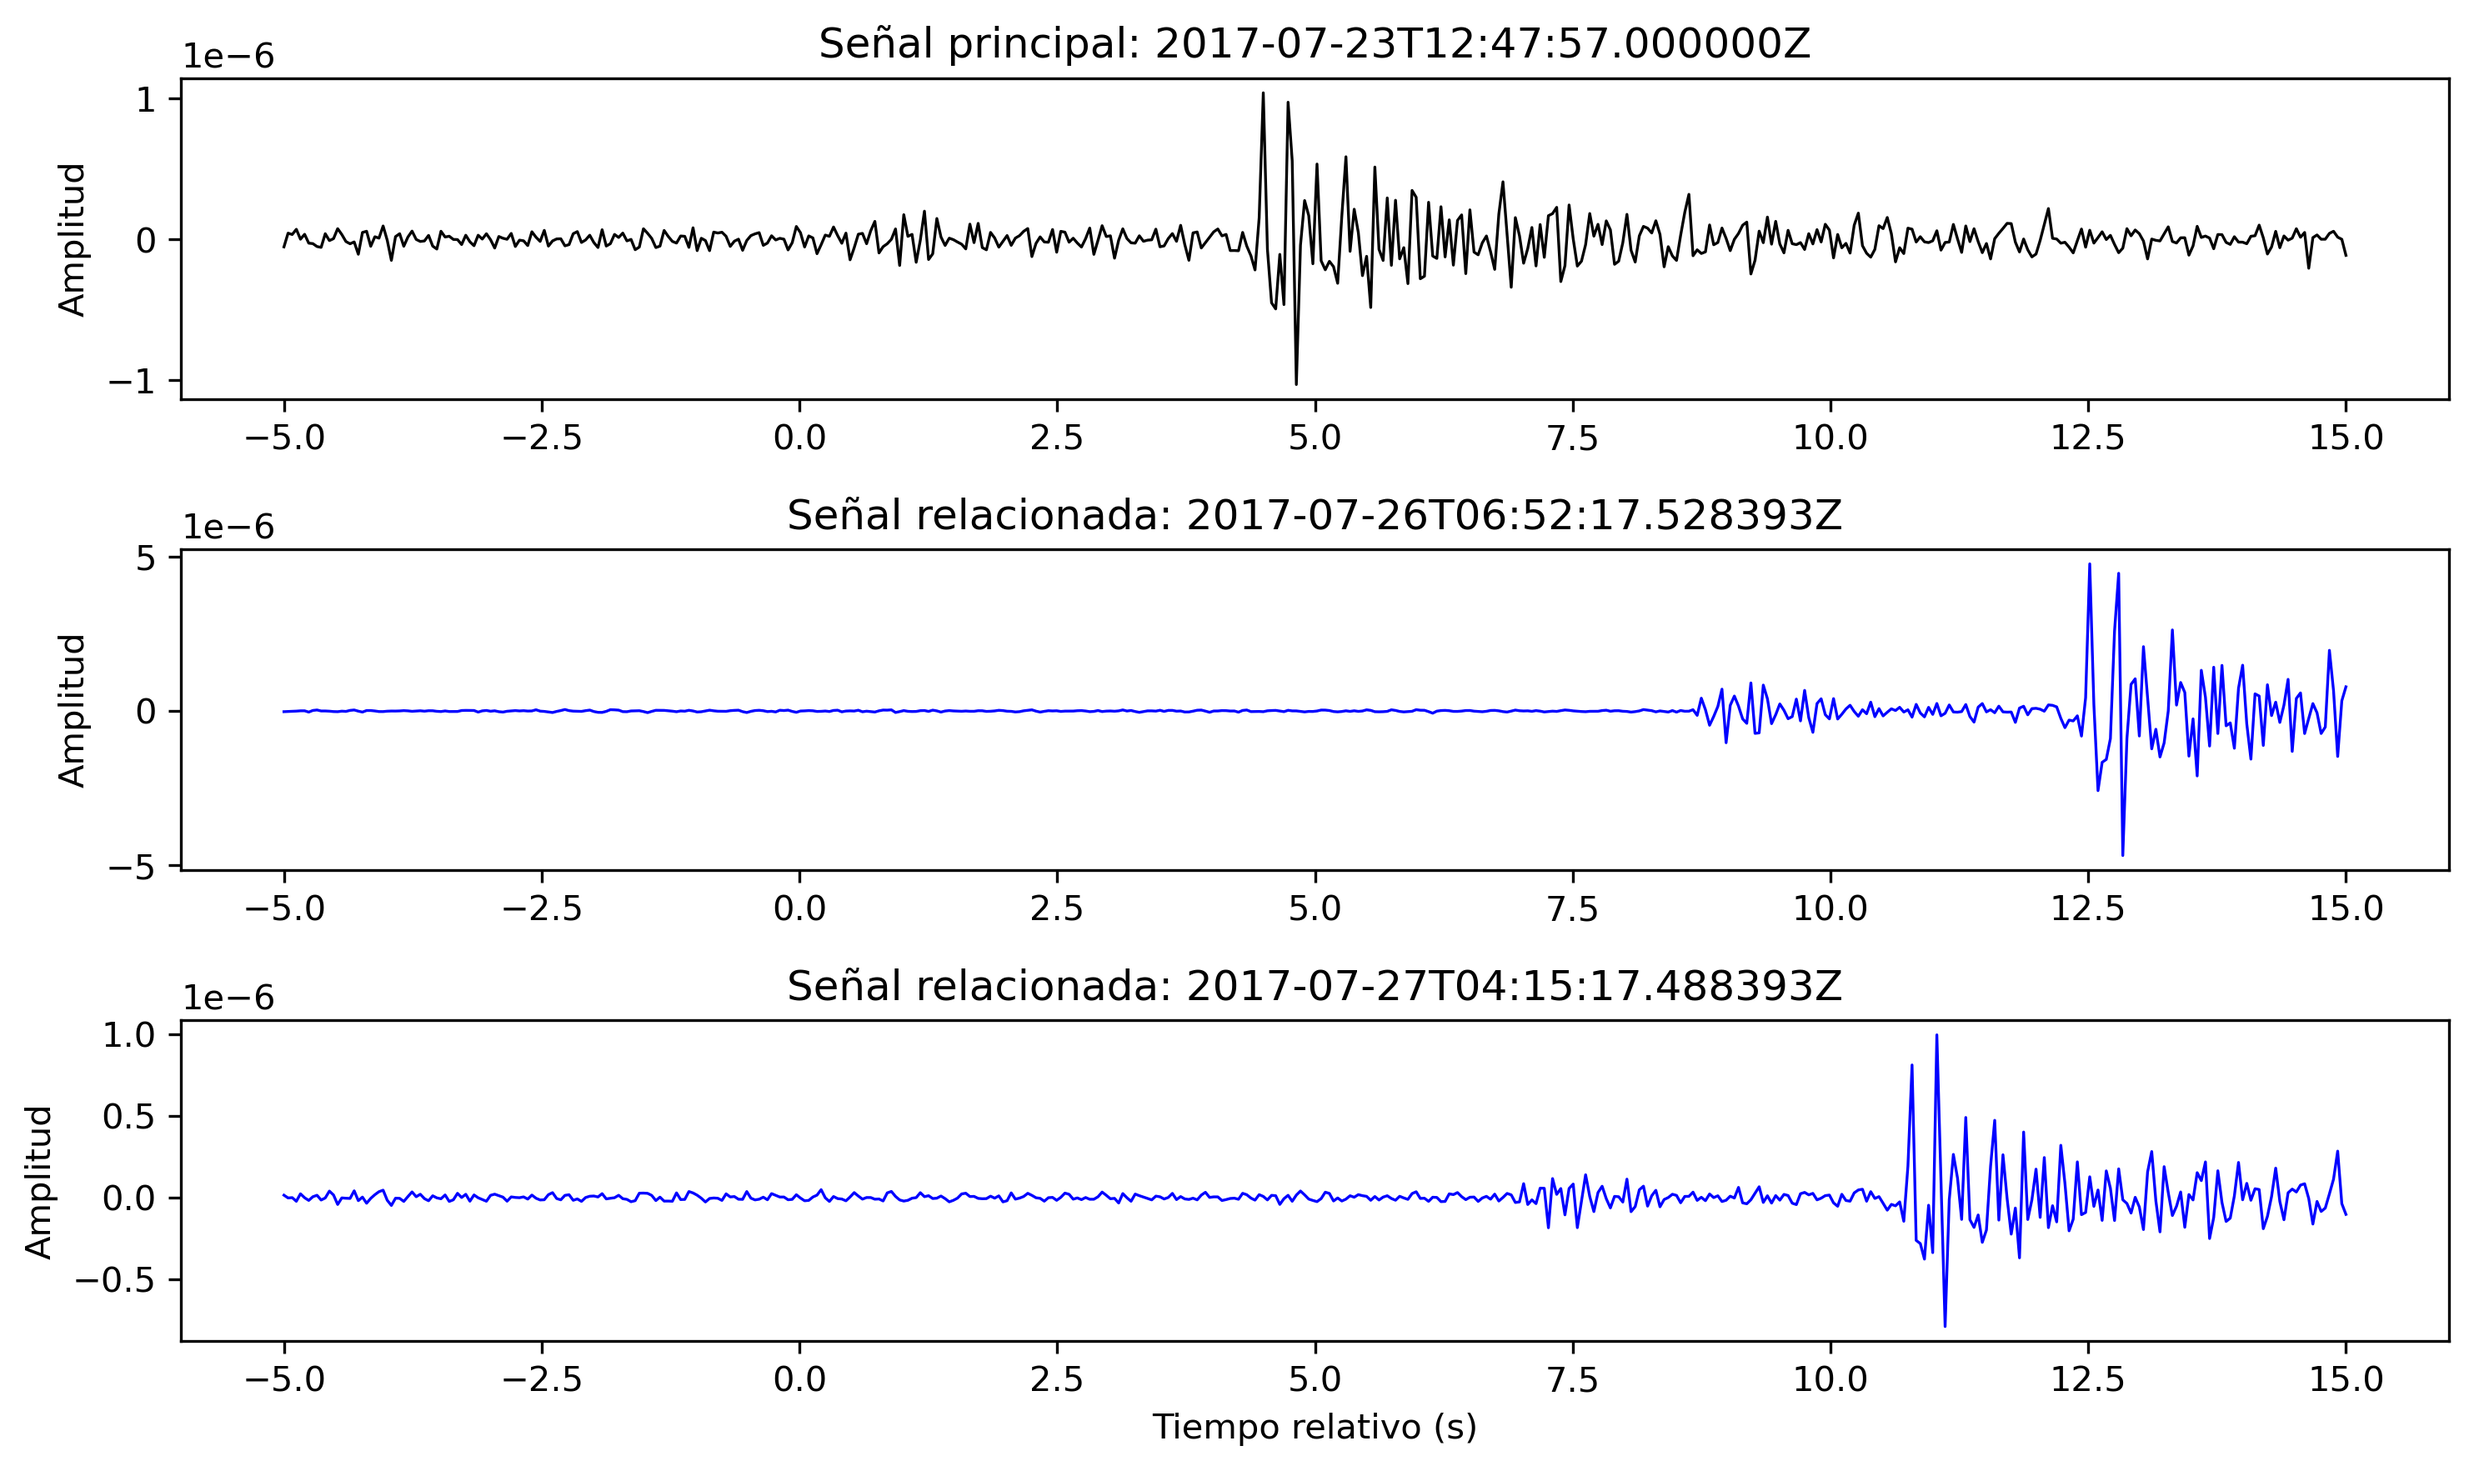
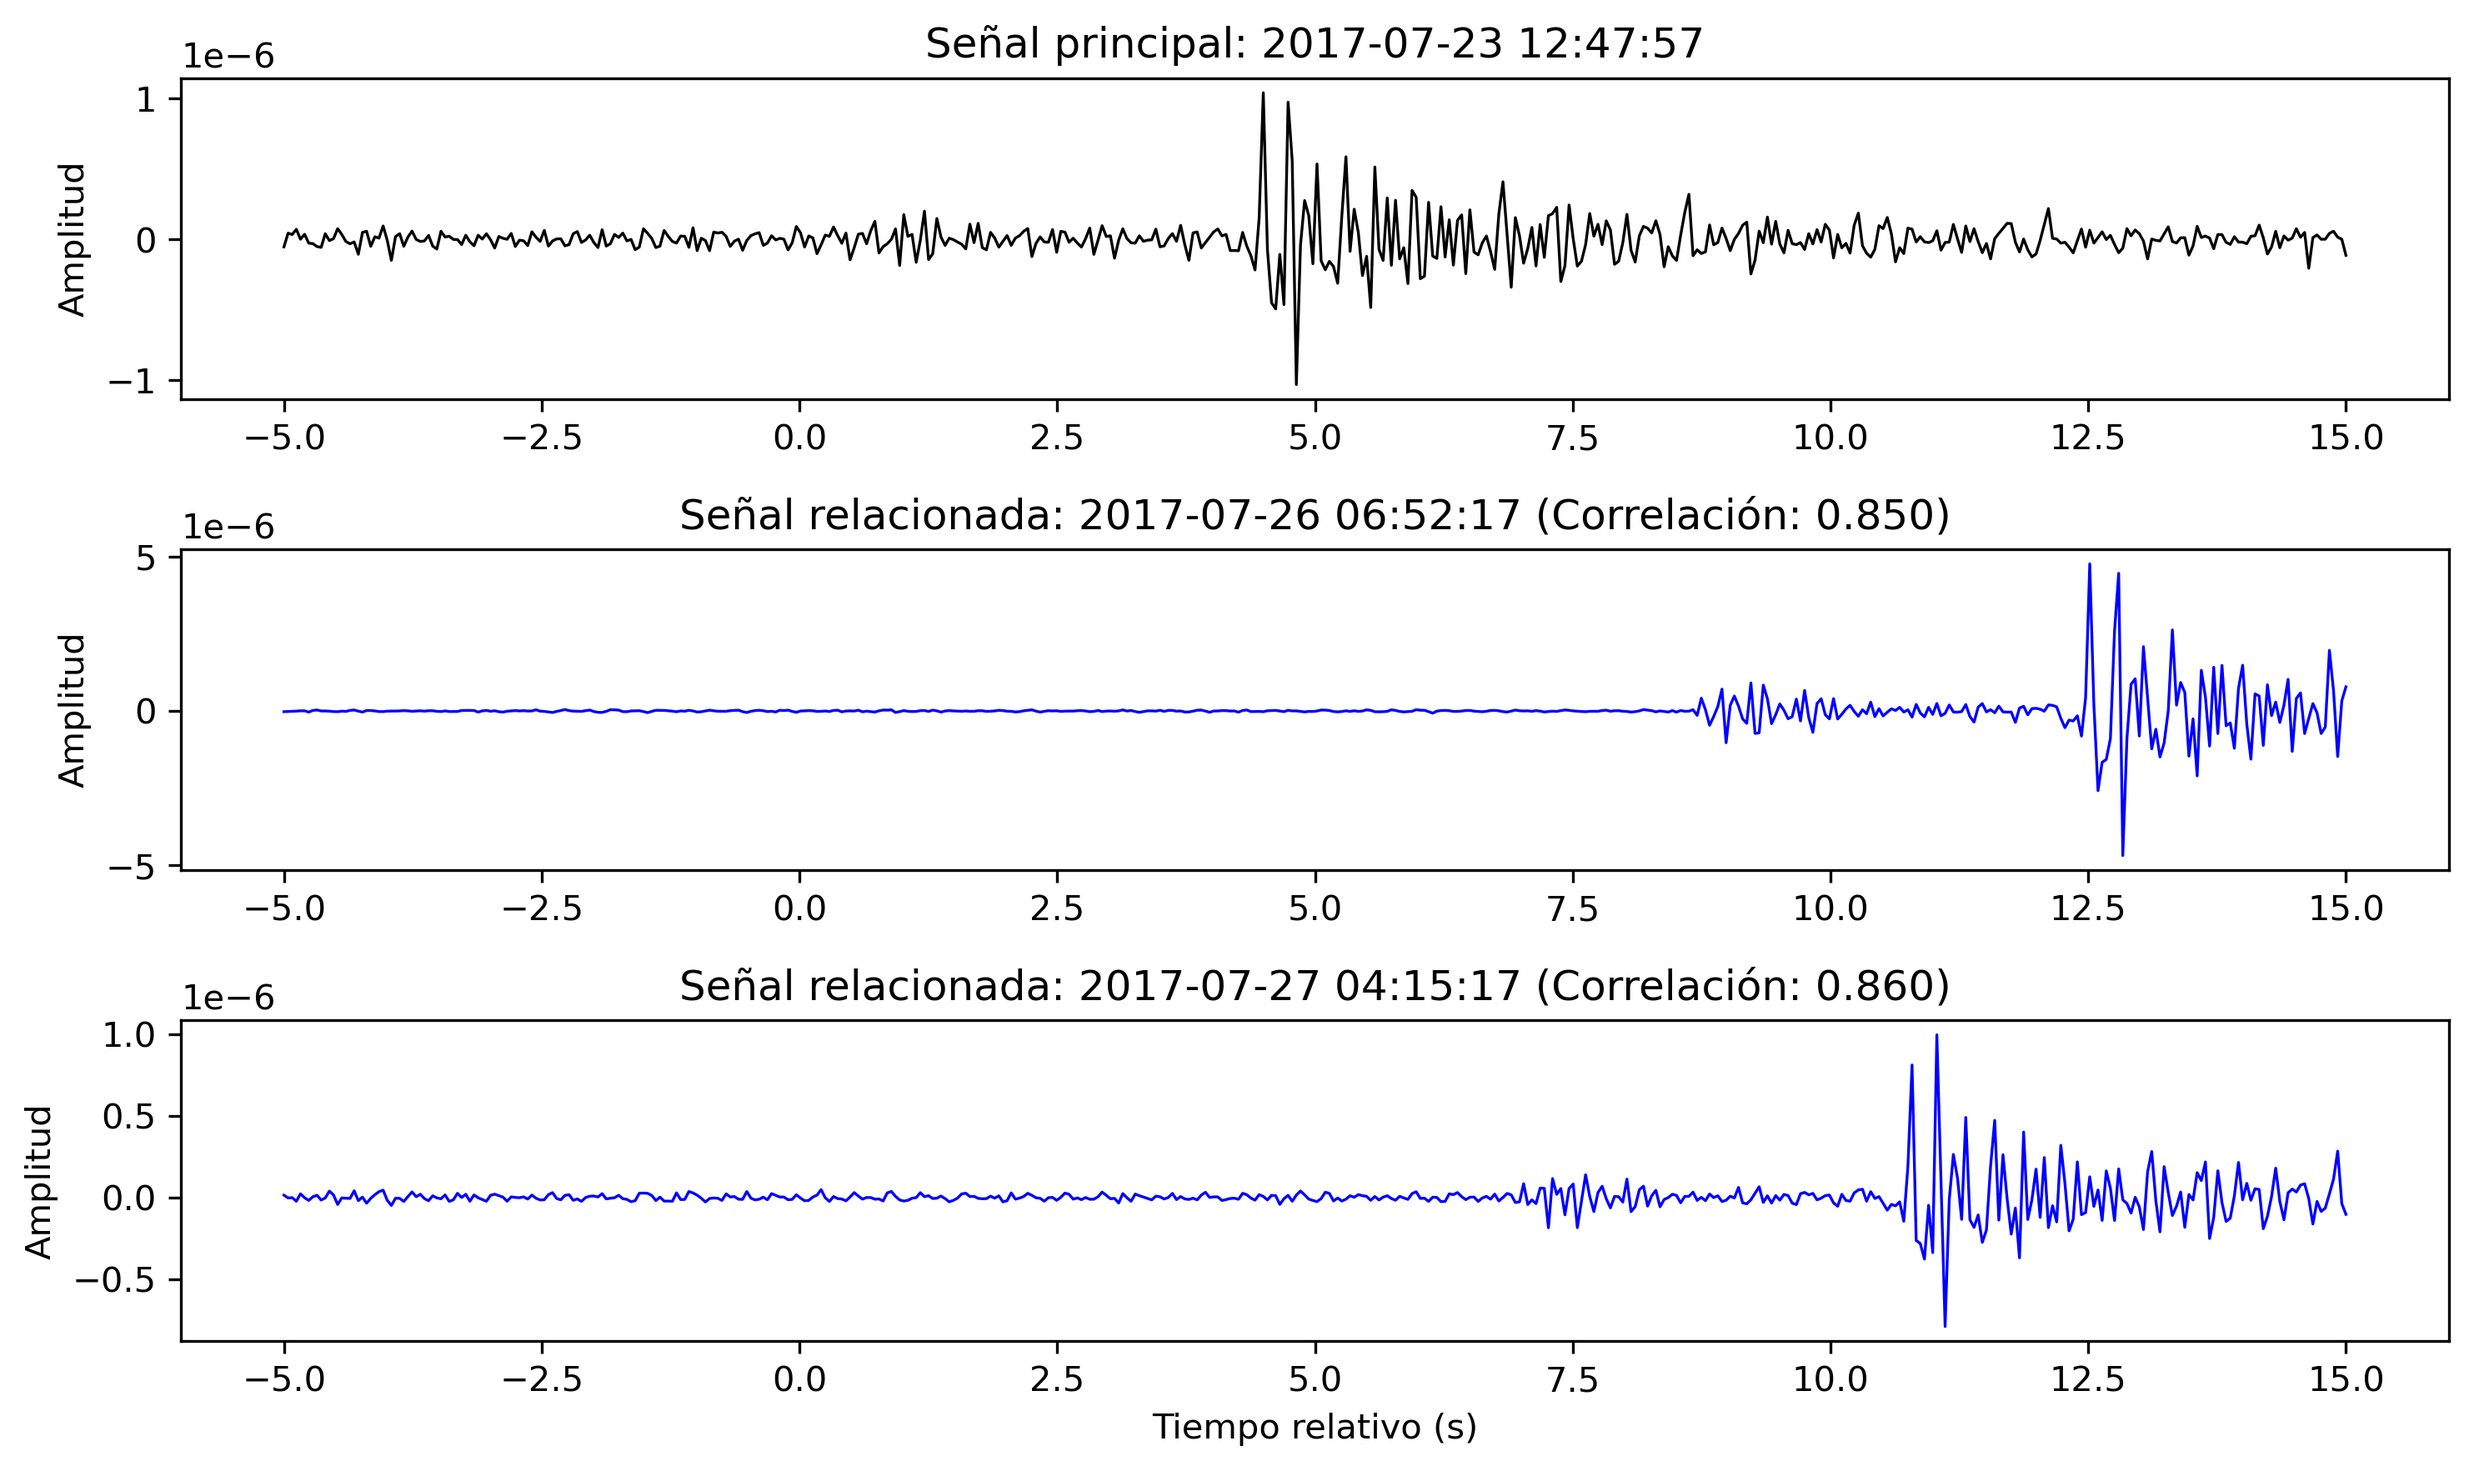
analisis opuesto

Changed region(s): [[0.341, 0.0, 0.7129, 0.0623], [0.279, 0.6544, 0.8059, 0.6856], [0.279, 0.3428, 0.7749, 0.3739]]

diff --git a/scamp_1mes_0/detecciones_relacionadas.py b/scamp_1mes_0/detecciones_relacionadas.py
@@ -8,6 +8,7 @@ signal = data[0].data
 stats = data[0].stats
 sampling_rate = stats.sampling_rate
 index = np.load('index_pearson.npy')
+profile = np.load('profile_pearson.npy')
 
 # Señales principales definidas en el código original
 signals = [
@@ -34,6 +35,7 @@ for i, signal_time in enumerate(signals):
 
     # Buscar las señales relacionadas
     related_times = []
+    related_profiles = []  # Para almacenar los valores de profile correspondientes
     for idx in related_indices:
         most_correlated_idx = index[idx]  # Índice más correlacionado
         if most_correlated_idx > 0:  # Índice válido
@@ -43,9 +45,11 @@ for i, signal_time in enumerate(signals):
             # Verificar la diferencia temporal mínima
             if all(abs((correlated_time - t)) >= min_time_diff for t in related_times):
                 related_times.append(correlated_time)
+                related_profiles.append(profile[most_correlated_idx])  # Guardar valor de profile
 
-    # Ordenar los tiempos relacionados
-    related_times = sorted(related_times)
+    # Ordenar los tiempos relacionados y sus perfiles
+    sorted_related = sorted(zip(related_times, related_profiles), key=lambda x: x[0])
+    related_times, related_profiles = zip(*sorted_related) if sorted_related else ([], [])
 
     # Crear figura para la señal principal y sus relacionadas
     num_plots = len(related_times) + 1  # Uno para la muestra original + cada secuencia relacionada
@@ -57,17 +61,19 @@ for i, signal_time in enumerate(signals):
     signal_segment = signal[start_index:end_index]
     time_axis = np.linspace(-5, 15, len(signal_segment))  # Tiempo relativo (5 s antes, 15 s después)
     axes[0].plot(time_axis, signal_segment, color='black', linewidth=0.8)
-    axes[0].set_title(f"Señal principal: {signal_time}")
+    axes[0].set_title(f"Señal principal: {signal_time.strftime('%Y-%m-%d %H:%M:%S')}")
     axes[0].set_ylabel("Amplitud")
     axes[0].grid(False)  # Sin cuadrícula
 
     # Graficar las señales relacionadas (en azul)
-    for j, related_time in enumerate(related_times):
+    for j, (related_time, related_profile) in enumerate(zip(related_times, related_profiles)):
         start_idx_related = int((related_time - 5 - stats.starttime) * sampling_rate)
         end_idx_related = int((related_time + 15 - stats.starttime) * sampling_rate)
         related_segment = signal[start_idx_related:end_idx_related]
         axes[j + 1].plot(time_axis, related_segment, color='blue', linewidth=0.8)
-        axes[j + 1].set_title(f"Señal relacionada: {related_time}")
+        axes[j + 1].set_title(
+            f"Señal relacionada: {related_time.strftime('%Y-%m-%d %H:%M:%S')} (Correlación: {related_profile:.3f})"
+        )
         axes[j + 1].set_ylabel("Amplitud")
         axes[j + 1].grid(False)  # Sin cuadrícula
 

diff --git a/scamp_3dias_opuesto/visualizacion_resultados.py b/scamp_3dias_opuesto/visualizacion_resultados.py
@@ -1,0 +1,64 @@
+import numpy as np
+import matplotlib.pyplot as plt
+from obspy import read
+from datetime import datetime, timedelta
+
+# Leer los datos originales y los resultados generados
+data = read('../../Datos/C1.MT12.HH*.2017.207-209.mseed')
+signal = data[0].data
+stats = data[0].stats
+sampling_rate = stats.sampling_rate
+
+# Cargar los archivos generados
+profile = np.load('profile_pearson.npy')
+index = np.load('index_pearson.npy')
+
+# Crear un eje de tiempo en días (considerando la duración real: 16 días)
+time_signal = np.arange(0, len(signal)) / sampling_rate / 3600 / 24  # Señal completa en días
+time_profile = np.arange(0, len(profile)) / sampling_rate / 3600 / 24  # Perfiles e índices en días
+
+# Convertir los índices filtrados a tiempo en días con un umbral de 0.8
+filter_mask = profile > 0.8
+filtered_indices = index[filter_mask]
+filtered_time_profile = time_profile[filter_mask]
+filtered_time_indices = filtered_indices / sampling_rate / 3600 / 24  # Convertir índices a tiempo en días
+
+# Imprimir detecciones
+print(f"Detecciones con perfil > 0.8: {len(filtered_time_profile)}")
+
+# Extraer la fecha inicial y final del archivo
+start_year, start_day_of_year = 2017, 207
+start_date = datetime(start_year, 1, 1) + timedelta(days=start_day_of_year - 1)
+end_date = start_date + timedelta(days=3 - 1)  # 3 días en total
+date_range_str = f"{start_date.strftime('%d/%m/%Y')} - {end_date.strftime('%d/%m/%Y')}"
+
+# Crear el gráfico con tres paneles
+fig, axes = plt.subplots(3, 1, figsize=(10, 10), sharex=True)
+
+# Gráfico 1: Señal sísmica
+axes[0].plot(time_signal, signal, color='black', linewidth=0.8)
+axes[0].set_title("Señal Sísmica", fontsize=12)
+axes[0].set_ylabel("Amplitud")
+
+# Gráfico 2: Perfil de correlación
+axes[1].plot(time_profile, profile, color='blue', linewidth=0.8)
+axes[1].axhline(y=0.8, color='red', linestyle='--', linewidth=1, label="0.8")
+axes[1].set_title("Matrix Profile", fontsize=12)
+axes[1].set_ylabel("Correlación")
+axes[1].legend()
+
+# Gráfico 3: Índices filtrados (convertidos a días)
+axes[2].scatter(filtered_time_profile, filtered_time_indices, color='teal', s=10, alpha=0.7)
+axes[2].set_title("Índice de Matrix Profile", fontsize=12)
+axes[2].set_ylabel("Tiempo (días)")
+axes[2].set_ylim(0, 16)  # Ajustar límites del eje Y para 16 días
+axes[2].set_xlabel("Tiempo (días)")
+
+# Ajustes de diseño
+plt.tight_layout()
+plt.subplots_adjust(top=0.92)
+fig.suptitle(f"Análisis Sísmico - Fecha: {date_range_str}", fontsize=14, y=0.98)
+
+# Guardar o mostrar la figura
+plt.savefig("visualizacion_resultados.png", dpi=300, bbox_inches='tight')
+plt.show()

diff --git a/scamp_3dias_opuesto/top_detecciones.py b/scamp_3dias_opuesto/top_detecciones.py
@@ -1,0 +1,63 @@
+import numpy as np
+import matplotlib.pyplot as plt
+from obspy import read
+
+# Cargar datos
+data = read('../../Datos/C1.MT12.HH*.2017.207-209.mseed')
+signal = data[0].data
+stats = data[0].stats
+sampling_rate = stats.sampling_rate
+
+# Cargar los arrays generados previamente
+profile = np.load('profile_pearson.npy')
+index = np.load('index_pearson.npy')
+
+# Obtener los índices de los 5 valores más altos de profile
+top_5_indices = np.argsort(profile)[-10:][::-1]  # Ordenar de mayor a menor y obtener los últimos 5
+
+# Parámetros para graficar
+time_window = 11  # Ventana de tiempo en segundos
+sublen_samples = int(time_window * sampling_rate)
+
+# Crear figura
+fig, axes = plt.subplots(len(top_5_indices), 2, figsize=(12, 3 * len(top_5_indices)))
+
+# Graficar cada par de señales
+for i, top_index in enumerate(top_5_indices):
+    # Índice correlacionado
+    related_index = int(index[top_index])
+    
+    if related_index < 0 or related_index >= len(signal):
+        continue  # Si el índice correlacionado es inválido, pasar al siguiente
+
+    # Extraer la señal principal
+    start_main = max(0, top_index - sublen_samples // 2)
+    end_main = min(len(signal), top_index + sublen_samples // 2)
+    main_signal = signal[start_main:end_main]
+    main_time = np.linspace(-time_window / 2, time_window / 2, len(main_signal))
+
+    # Extraer la señal correlacionada
+    start_related = max(0, related_index - sublen_samples // 2)
+    end_related = min(len(signal), related_index + sublen_samples // 2)
+    related_signal = signal[start_related:end_related]
+    related_time = np.linspace(-time_window / 2, time_window / 2, len(related_signal))
+
+    # Graficar señal principal
+    axes[i, 0].plot(main_time, main_signal, color='black', linewidth=0.8)
+    axes[i, 0].set_title(f'Señal principal (Índice: {top_index}, Profile: {profile[top_index]:.3f})')
+    axes[i, 0].set_ylabel("Amplitud")
+    axes[i, 0].set_xlabel("Tiempo relativo (s)")
+    axes[i, 0].grid(False)
+
+    # Graficar señal relacionada
+    axes[i, 1].plot(related_time, related_signal, color='blue', linewidth=0.8)
+    axes[i, 1].set_title(f'Señal relacionada (Índice: {related_index})')
+    axes[i, 1].set_ylabel("Amplitud")
+    axes[i, 1].set_xlabel("Tiempo relativo (s)")
+    axes[i, 1].grid(False)
+
+# Ajustar el diseño de la figura
+plt.tight_layout()
+
+# Guardar la figura
+fig.savefig('top_detecciones.png')

diff --git a/scamp_1mes_opuesto/scamp_1mes_opuesto.py b/scamp_1mes_opuesto/scamp_1mes_opuesto.py
@@ -1,0 +1,13 @@
+from obspy import read
+import pyscamp as mp
+import numpy as np
+
+Data   = read('C1.MT12.HH*.2017.204-210.mseed')
+SR     = Data[0].stats.sampling_rate 
+sublen = int(11*SR)
+
+# abjoin (comparación todo con todo)
+profile, index = mp.abjoin(Data[0].data*1e8, -Data[0].data*1e8, sublen, threads=32, pearson=True)
+
+np.save('profile_pearson', profile)
+np.save('index_pearson', index)
